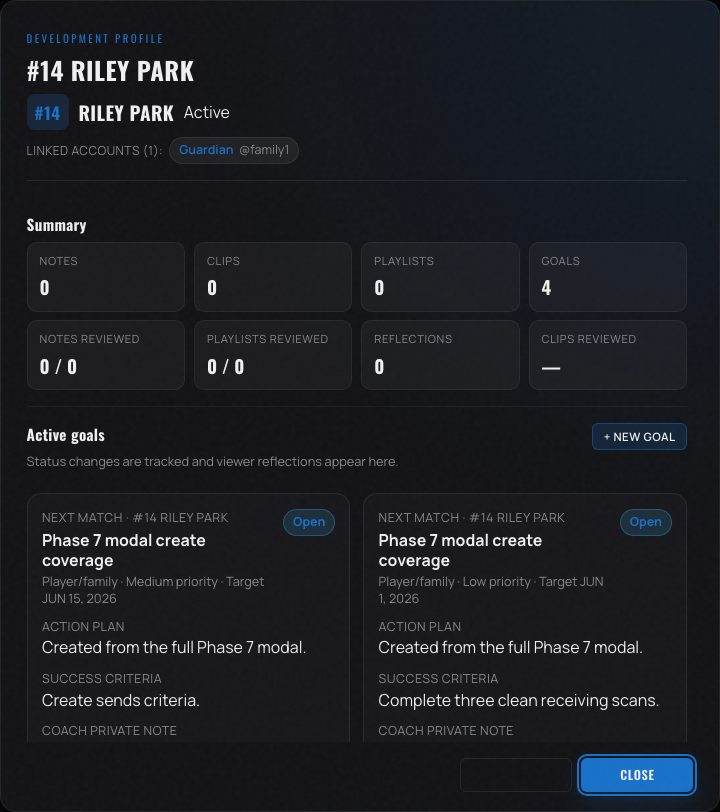
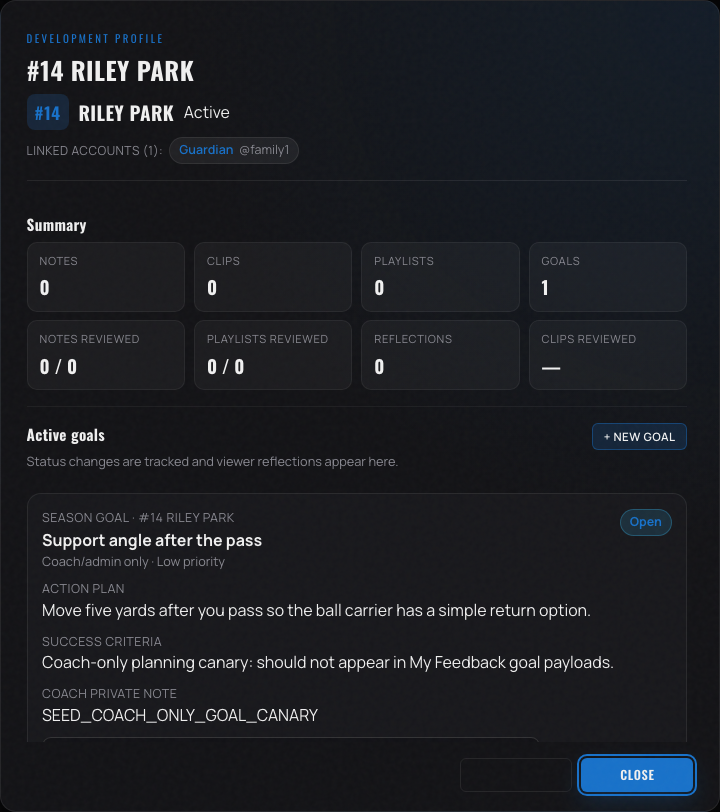
fix: handle empty goal target dates

diff --git a/tests/e2e/phase-7-goals.spec.js b/tests/e2e/phase-7-goals.spec.js
@@ -138,6 +138,34 @@ test.describe('Phase 7 — goals UI and privacy captures', () => {
         expect(createdFromModal.target_date).toBe('2026-06-15');
         expect(createdFromModal.success_criteria).toBe('Create sends criteria.');
         expect(createdFromModal.coach_private_note).toBe('PHASE7_SECRET create from modal.');
+
+        await page.evaluate((goalId) => { window.app.openCoachGoalModal({ goalId }); return true; }, createdFromModal.id);
+        await expect(page.locator('.app-modal-card [data-field="target_date"]')).toHaveValue('2026-06-15');
+        await page.locator('.app-modal-card [data-field="target_date"]').fill('');
+        await page.locator('.app-modal-card .app-modal-confirm').click();
+        await expect(page.locator('.app-modal-card')).toHaveCount(0);
+        const clearedDateGoal = await page.evaluate(async (goalId) => {
+            const token = sessionStorage.getItem('replay_admin_token');
+            const resp = await fetch('/api/coach/goals', { headers: { Authorization: `Bearer ${token}` } });
+            if (!resp.ok) throw new Error(await resp.text());
+            return ((await resp.json()).goals || []).find((g) => g.id === goalId);
+        }, createdFromModal.id);
+        expect(clearedDateGoal.target_date).toBe('');
+
+        const noDateTitle = `Phase 7 modal no-date coverage ${Date.now()}`;
+        await page.evaluate((playerId) => { window.app.openCoachGoalModal({ playerId }); return true; }, prepared.player_id);
+        await page.locator('.app-modal-card [data-field="title"]').fill(noDateTitle);
+        await page.locator('.app-modal-card [data-field="description"]').fill('Created without a target date.');
+        await expect(page.locator('.app-modal-card [data-field="target_date"]')).toHaveValue('');
+        await page.locator('.app-modal-card .app-modal-confirm').click();
+        await expect(page.locator('.app-modal-card')).toHaveCount(0);
+        const noDateGoal = await page.evaluate(async (title) => {
+            const token = sessionStorage.getItem('replay_admin_token');
+            const resp = await fetch('/api/coach/goals', { headers: { Authorization: `Bearer ${token}` } });
+            if (!resp.ok) throw new Error(await resp.text());
+            return ((await resp.json()).goals || []).find((g) => g.title === title);
+        }, noDateTitle);
+        expect(noDateGoal.target_date).toBe('');
     });
 
     test('03 — family viewer sees goals/reflections without coach-private leakage', async ({ page }) => {
@@ -156,6 +184,14 @@ test.describe('Phase 7 — goals UI and privacy captures', () => {
         const visibleText = await page.locator('#feedback-view').innerText();
         expect(visibleText).not.toContain('coach_private_note');
         expect(visibleText).not.toContain('PHASE7_SECRET');
+        await expect(page.locator('#feedback-development-profile .player-goal-card .mini-action-btn-primary').first()).toContainText('Add reflection');
+        await page.locator('#feedback-development-profile .player-goal-card .mini-action-btn-primary').first().click();
+        await expect(page.locator('.app-modal-card')).toBeVisible();
+        await expect(page.locator('.app-modal-card')).toContainText('Reflect on goal');
+        await expect(page.locator('.app-modal-card article.player-goal-card')).toBeVisible();
+        await expect(page.locator('.app-modal-card article.player-goal-card .mini-action-btn-primary')).toHaveCount(0);
+        await expect(page.locator('.app-modal-card')).not.toContainText('PHASE7_SECRET');
+        await page.locator('.app-modal-card .app-modal-cancel').click();
         await page.screenshot({ path: path.join(OUT, '03-family-current-goals.png'), fullPage: false });
     });
 });

diff --git a/js/coaching.js b/js/coaching.js
@@ -5777,7 +5777,7 @@ export const coachingMixin = {
         return null;
     },
 
-    _renderGoalCard(goal, { viewer = false } = {}) {
+    _renderGoalCard(goal, { viewer = false, actions = true } = {}) {
         const player = this._goalPlayer(goal);
         const source = this._goalSourceSummary(goal);
         const reflections = goal.reflections || [];
@@ -5804,14 +5804,14 @@ export const coachingMixin = {
                 ${!viewer && goal.coach_private_note ? `<div class="player-goal-preview-block player-goal-private-note"><span>Coach private note</span><p class="player-goal-desc">${this.esc(goal.coach_private_note)}</p></div>` : ''}
                 ${source ? `<div class="player-goal-source"><span>${this.esc(source.label)}</span><strong>${this.esc(source.text)}</strong></div>` : ''}
                 ${latest ? `<div class="player-goal-reflection"><span>Latest reflection</span><p>${this.esc(latest.reflection || '')}</p></div>` : ''}
-                <div class="player-goal-actions">
+                ${actions ? `<div class="player-goal-actions">
                     ${viewer ? `<button type="button" class="mini-action-btn mini-action-btn-primary" onclick="app.openGoalReflectionModal(${Number(goal.id)})">Add reflection</button>` : `
                         <select class="player-goal-status-select" aria-label="Goal status" onchange="app.handleCoachGoalStatus(${Number(goal.id)}, this.value)">
                             ${GOAL_STATUS_OPTIONS.map(([v, l]) => `<option value="${v}" ${v === status ? 'selected' : ''}>${this.esc(l)}</option>`).join('')}
                         </select>
                         <button type="button" class="mini-action-btn" onclick="app.openCoachGoalModal({ goalId: ${Number(goal.id)} })">Edit</button>
                         <button type="button" class="mini-action-btn" onclick="app.handleCoachDeleteGoal(${Number(goal.id)})">Delete</button>`}
-                </div>
+                </div>` : ''}
             </article>`;
     },
 
@@ -5869,7 +5869,7 @@ export const coachingMixin = {
                     visibility: body.querySelector('[data-field="visibility"]').value,
                     priority: body.querySelector('[data-field="priority"]').value,
                     status: body.querySelector('[data-field="status"]').value,
-                    target_date: body.querySelector('[data-field="target_date"]').value || null,
+                    target_date: body.querySelector('[data-field="target_date"]').value || '',
                     success_criteria: body.querySelector('[data-field="success_criteria"]').value.trim(),
                     coach_private_note: body.querySelector('[data-field="coach_private_note"]').value.trim(),
                     target_match_id: body.querySelector('[data-field="target_match_id"]').value || null,
@@ -5915,7 +5915,7 @@ export const coachingMixin = {
         const body = document.createElement('div');
         body.className = 'coach-mini-form player-goal-form';
         body.innerHTML = `
-            <div class="player-goal-card is-preview">${this._renderGoalCard(goal, { viewer: true })}</div>
+            <div class="player-goal-card is-preview">${this._renderGoalCard(goal, { viewer: true, actions: false })}</div>
             <label>Your reflection<textarea data-field="reflection" rows="4" maxlength="1000" placeholder="What did you try? What should your coach know?"></textarea></label>`;
         const result = await this.formModal({
             title: 'Reflect on goal', kicker: 'My Feedback', body, confirmLabel: 'Save reflection',
